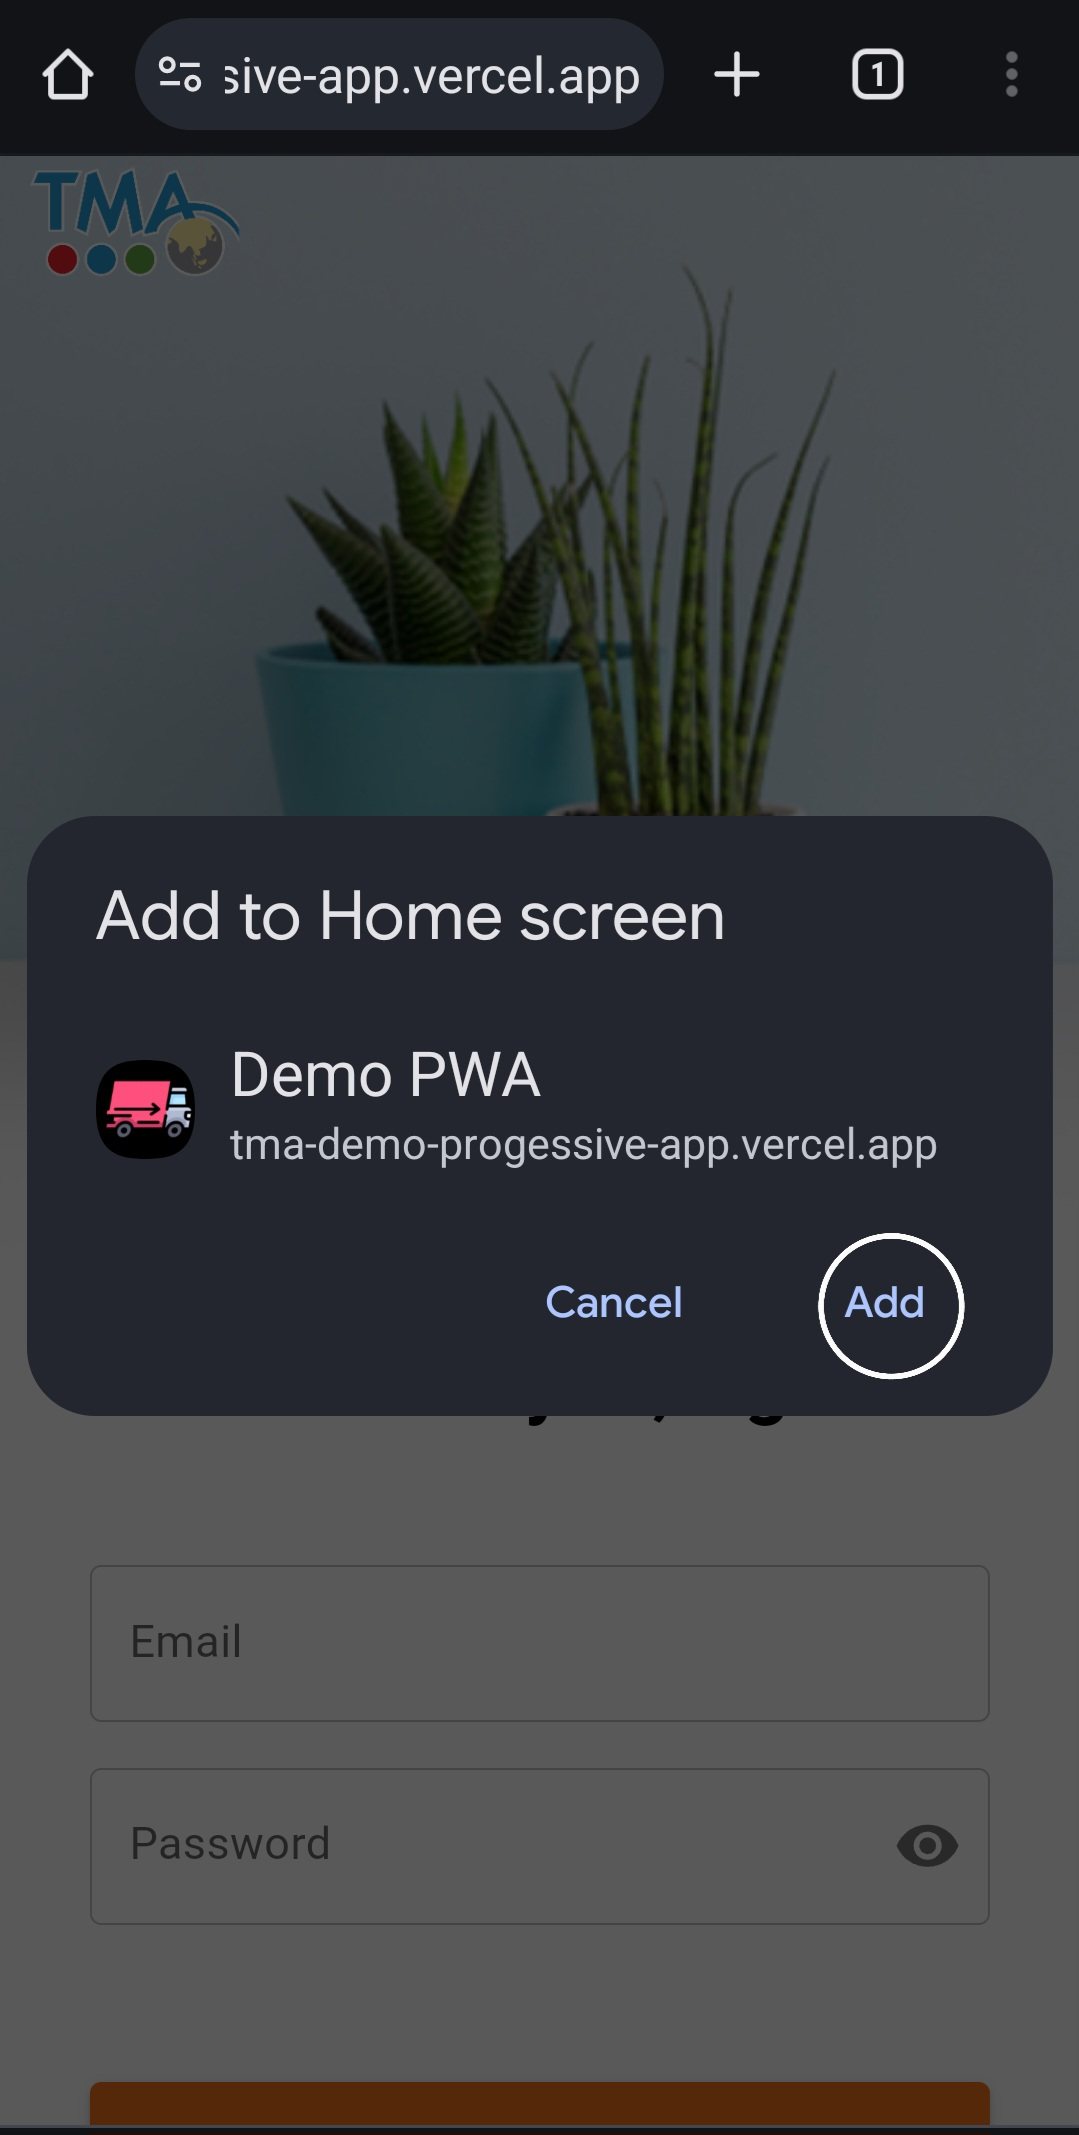
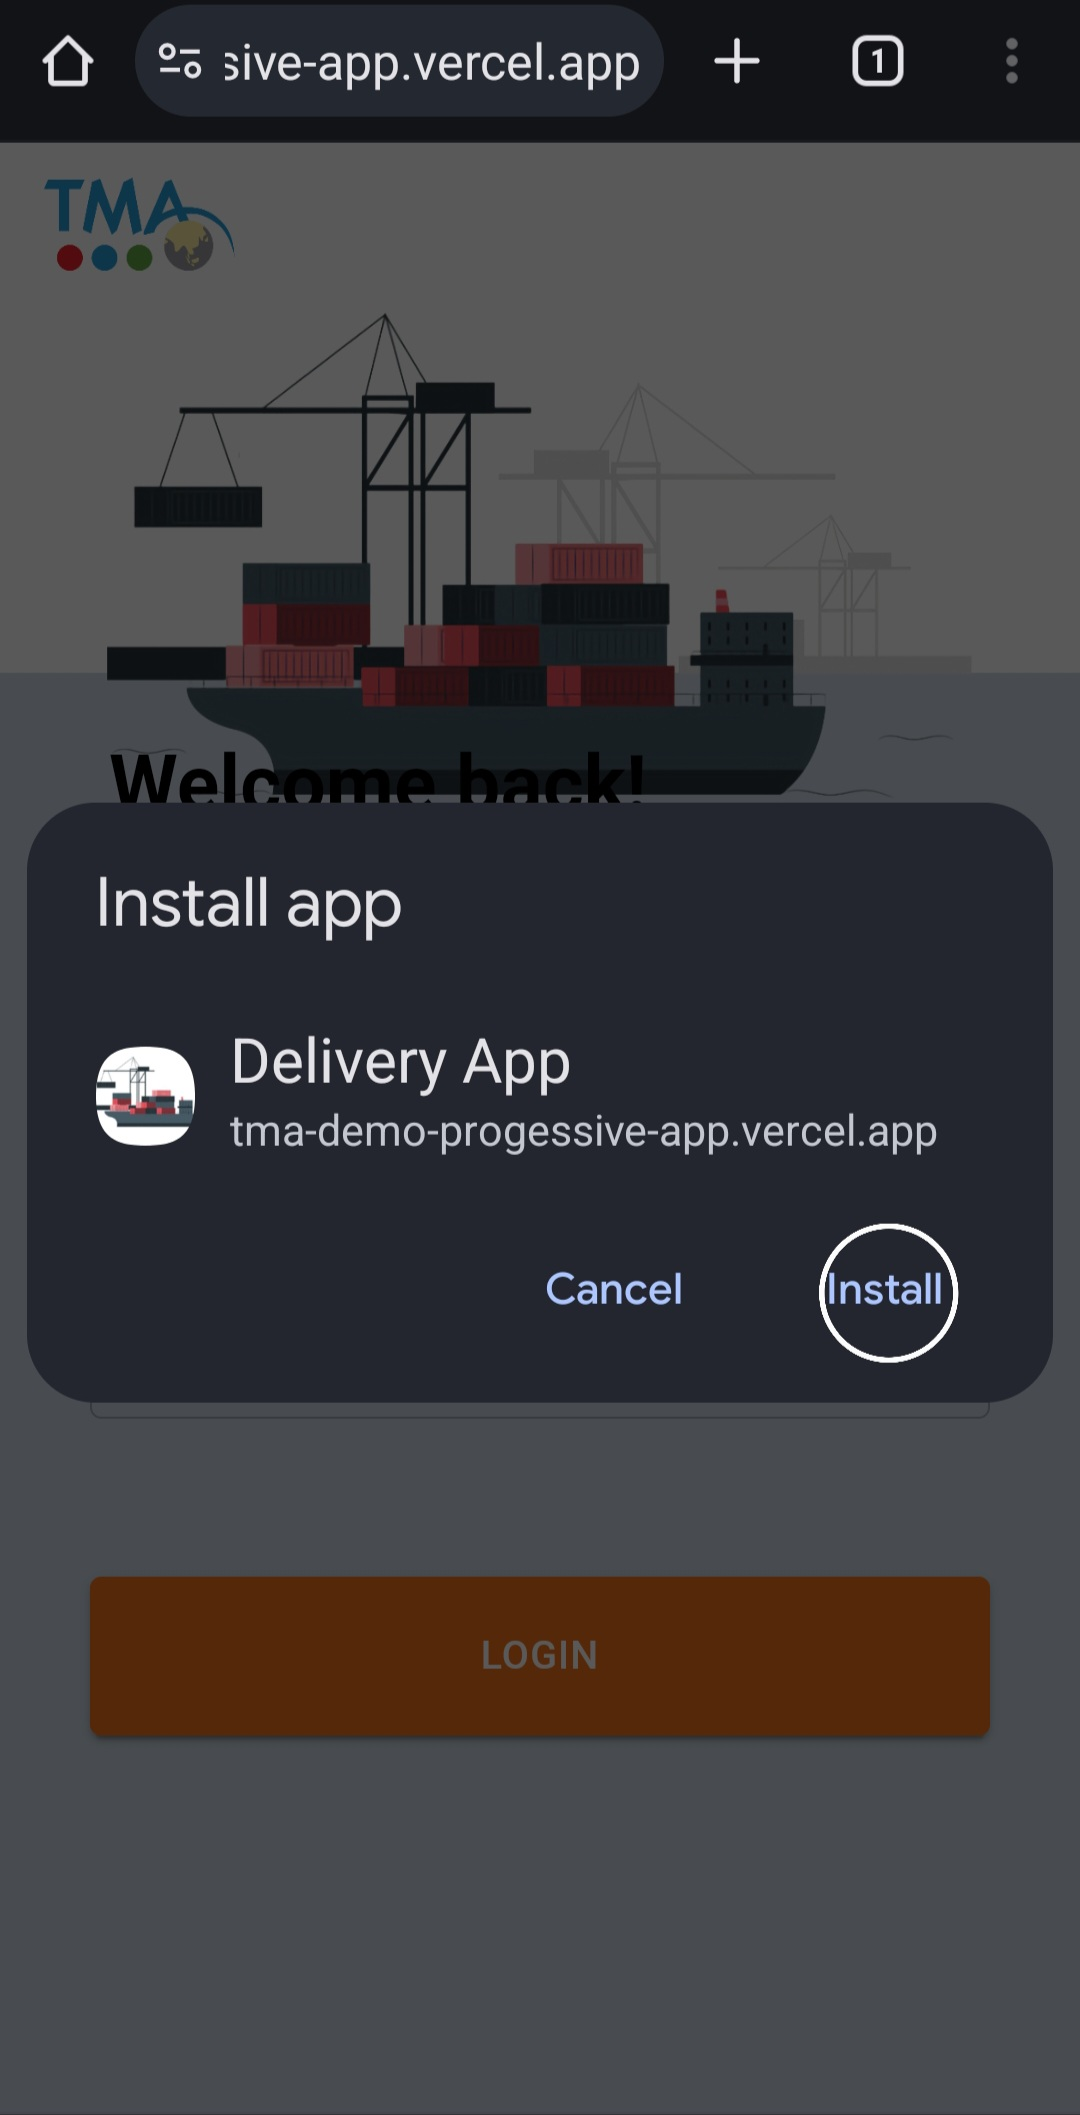
update image

diff --git a/src/app/login/page.js b/src/app/login/page.js
@@ -34,7 +34,7 @@ export default function Home() {
 
   return (
     <Fragment>
-      {/* <WarningModal
+      <WarningModal
         open={uiState.open}
         onClose={() => setUIState((prev) => ({ ...prev, open: false }))}
         message={IOS_WARNING_MSG}
@@ -43,9 +43,9 @@ export default function Home() {
         <IOSInstallPWAInstruction />
       ) : uiState.showAndroidInstruction ? (
         <AndroidInstallPWAInstruction />
-      ) : ( */}
-      <Login />
-      {/* )} */}
+      ) : (
+        <Login />
+      )}
     </Fragment>
   );
 }

diff --git a/src/components/AndroidInstallPWAInstruction.js b/src/components/AndroidInstallPWAInstruction.js
@@ -14,11 +14,11 @@ const steps = [
     image: "/assets/img/android-install-step1.png",
   },
   {
-    title: "Click 'Add to Home Screen'",
+    title: "Click 'Install app'",
     image: "/assets/img/android-install-step2.png",
   },
   {
-    title: "Review settings and click 'Add'",
+    title: "Review settings and click 'Install'",
     image: "/assets/img/android-install-step3.png",
   },
   {
